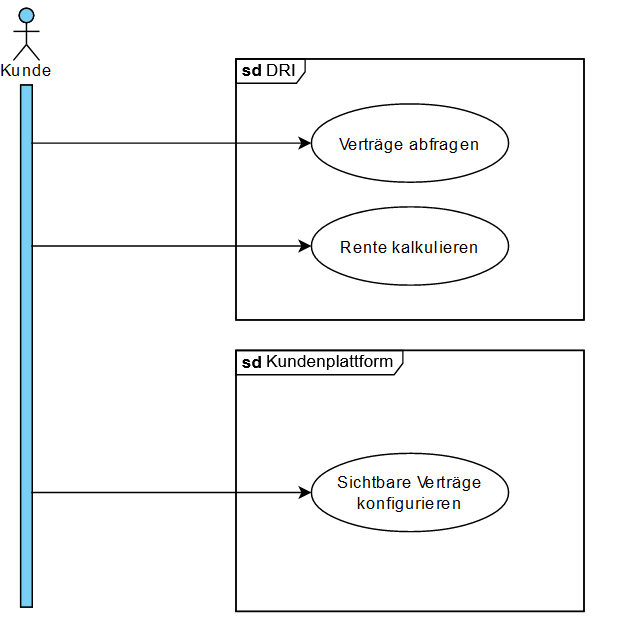
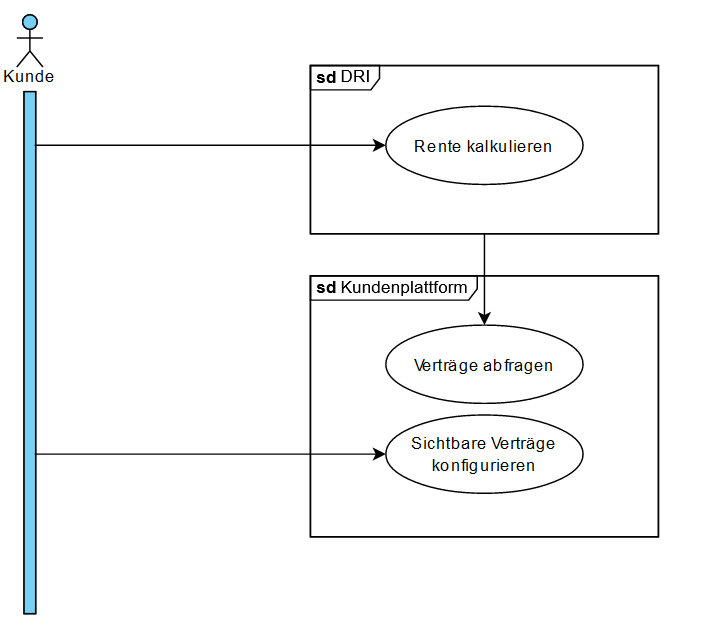
UML

Changed region(s): [[0.0, 0.0, 0.9439, 1.0], [0.6394, 0.6364, 0.7612, 0.6667], [0.5176, 0.7879, 0.5481, 0.8182]]

diff --git a/docs/FRIDA_PensionInformation_OA3_german/description.md b/docs/FRIDA_PensionInformation_OA3_german/description.md
@@ -1,181 +1,18 @@
-# Overview 123
-## Use-Cases 12345
-
+# Overview 
+## Use-Cases
 <img
-src="FRIDA_PensionInformation_OA3_german/resources/User.png">    
+src="FRIDA_PensionInformation_OA3_german/resources/User.png">     
+<p>This UML diagram describes the relationship between the client and the two platforms. He interacts with the DRI portal to calculate his pension.
+The DRI platform then queries the contracts via the customer platform. In addition to that, the customer is able to
+ configure the visible contracts via the customer platform.
+</p>
 
-Lorem ipsum dolor sit amet, consetetur sadipscing elitr, sed diam nonumy eirmod tempor invidunt ut labore et dolore magna aliquyam erat, sed diam voluptua. At vero eos et accusam et justo duo dolores et ea rebum. Stet clita kasd gubergren, no sea takimata sanctus est Lorem ipsum dolor sit amet. Lorem ipsum dolor sit amet, consetetur sadipscing elitr, sed diam nonumy eirmod tempor invidunt ut labore et dolore magna aliquyam erat, sed diam voluptua. At vero eos et accusam et justo duo dolores et ea rebum. Stet clita kasd gubergren, no sea takimata sanctus est Lorem ipsum dolor sit amet.
-
-## Sequenzdiagramm 12345
-
+## Use-Case 1: 
 <img
-src="FRIDA_PensionInformation_OA3_german/resources/Diagramm.png">  
+src="FRIDA_PensionInformation_OA3_german/resources/Case1.png">  
+Der Kunde kann die Methode ```sichtbareVerträgeKonfigurieren()``` 
 
-Lorem ipsum dolor sit amet, consetetur sadipscing elitr, sed diam nonumy eirmod tempor invidunt ut labore et dolore magna aliquyam erat, sed diam voluptua. At vero eos et accusam et justo duo dolores et ea rebum. Stet clita kasd gubergren, no sea takimata sanctus est Lorem ipsum dolor sit amet. Lorem ipsum dolor sit amet, consetetur sadipscing elitr, sed diam nonumy eirmod tempor invidunt ut labore et dolore magna aliquyam erat, sed diam voluptua. At vero eos et accusam et justo duo dolores et ea rebum. Stet clita kasd gubergren, no sea takimata sanctus est Lorem ipsum dolor sit amet.
+## Authentifizierung: 
+<img src="FRIDA_PensionInformation_OA3_german/resources/Case2.png">  
 
-Get the current weather, daily forecast for 16 days, and a
 
-three-hour-interval forecast for 5 days for your city.
-
-## Graphics and charts
-
-
-Helpful stats, graphics, and this day in history charts are available for
-your reference. 
-
-## BPMN
-<img src="FRIDA_PensionInformation_OA3_german/resources/BPMN.png">  
-
-Lorem ipsum dolor sit amet, consetetur sadipscing elitr, sed diam nonumy eirmod tempor invidunt ut labore et dolore magna aliquyam erat, sed diam voluptua. At vero eos et accusam et justo duo dolores et ea rebum. Stet clita kasd gubergren, no sea takimata sanctus est Lorem ipsum dolor sit amet. Lorem ipsum dolor sit amet, consetetur sadipscing elitr, sed diam nonumy eirmod tempor invidunt ut labore et dolore magna aliquyam erat, sed diam voluptua. At vero eos et accusam et justo duo dolores et ea rebum. Stet clita kasd gubergren, no sea takimata sanctus est Lorem ipsum dolor sit amet.
-
-# Interactive maps
-
-
-Interactive maps show precipitation, clouds, pressure, wind around your
-location stations. Data is available in JSON, XML, or HTML format.
-
-
-**Note**: This sample Swagger file covers the `current` endpoint only from
-the OpenWeatherMap API. <br/><br/> **Note**: All parameters are optional,
-but you must select at least one parameter. Calling the API by city ID
-(using the `id` parameter) will provide the most precise location results.
-
-
-# Voluisti qua ambitae urbes deposuitque illas
-
-
-## Verte arceat
-
-
-Lorem markdownum, videre temptabimus movit sollicitat in poteris tetigere
-
-circumfluus potitur posse et Minyeides nondum cupio. Bracchia de utque
-templis
-
-sinuosa? Mihi regna excutit lacertos, magnorum, cupidine, quodcumque
-latratibus
-
-et conubia vitae ego matrem et. Proxima coniuge dicere, pone unda hic
-fallite.
-
-Tereus foret sed Laelapa **et** meritis ursos fusus *doctus tibi sculpsit*,
-ubi,
-
-in educere regia, fata.
-
-
-1. Pone levius
-   
-2. Quos optato et haerent declinat erat sub
-3. Vel penetralia tendens difficilem 
-4.  sed diam nonumy eirmod tempor invidunt 
-5.   sed diam nonumy eirmod tempor invidunt 
-
-
-## Telum sensit
-
-
-Inclusum soror oculorum et imo Cythereide Dianae Philomela patriam, Iovis
-per
-
-sine. Dies chlamydis rubescere per in iubet summa sinamus thalamos meum, et!
-
-Deum rursus **caput** cruentati, et tardi ardentem paratis, *oreada*.
-
-    file = memory(view_monitor_wrap, script);
-    icio_gif -= -1;
-    googleStart = paste_ebook.kde(it_srgb);
-    if (opacity + file_page_pop < ios_sample) {
-        nybble = ups_cable;
-        executable_printer = json;
-        ddlBlob(grepClob(byte_type_digital, direct_pdf), rawEsports(png_http,
-                frozen_bus_matrix, bar));
-    }
-    sla_iteration = ctr_and;
-
-## Mihi erat quam
-
-
-Arces pavor dixi difficilem in nomen curat vincula conlaudat premens
-timorem:
-
-ecce securi in tenetis. Exierant aggere fragorem non haec, [ita
-
-vox](http://non.com/) Inarimen; [uno](http://www.dira-potes.io/ceu.html)
-tellus.
-
-Iniqua aeris additur alis, iugo adice viribus, monstro, promissa sacro caput
-
-**condat** subiecto et sim [quo](http://www.crura-cum.org/) exit? Edere
-stipite
-
-temploque auxilium superos oculos **Minervae**, cum rictus apri suumque,
-pennis
-
-videt nomine? Tulit detrusit post: meo Nilus vada videbor flumina, non
-vestigia
-
-aquis coeperat deriguere lata sine, nec.
-
-
-> Prima genitor *obscurum* excipit sedendo popularis reticere discede
-nostri,
-
-> margine, Pentheus, et illa Troiae Peliden arvaque. Facinus nec! Est umbra
-
-> dominique quoque, aera, et pectore flammae fuga vias: etiam! Paulum
-Anaphen
-
-> pars aptos latent arbore **anni** liceat calcare dat corpora duritia
-desinere
-
-> dedit nata fiunt **armat**.
-
-
-Sic liceat, **saxo fallit posset** ignes, erit ab ecquem; omne gentis notas.
-
-Sive sine. Me res lacrimae templis fecunda interea, *taedas nullo*, iam
-paelice
-
-oculos fruges; his verti **exilium**.
-
-## Verte arceat
-
-
-Lorem markdownum, videre temptabimus movit sollicitat in poteris tetigere
-
-circumfluus potitur posse et Minyeides nondum cupio. Bracchia de utque
-templis
-
-sinuosa? Mihi regna excutit lacertos, magnorum, cupidine, quodcumque
-latratibus
-
-et conubia vitae ego matrem et. Proxima coniuge dicere, pone unda hic
-fallite.
-
-Tereus foret sed Laelapa **et** meritis ursos fusus *doctus tibi sculpsit*,
-ubi,
-
-in educere regia, fata.
-
-
-1. Pone levius
-   
-2. Quos optato et haerent declinat erat sub
-3. Vel penetralia tendens difficilem 
-4.  sed diam nonumy eirmod tempor invidunt 
-5.   sed diam nonumy eirmod tempor invidunt 
-
-
-
-[Mihi pulsavit pinguescere](http://tenus-natas.io/venus.php) obstipui
-ebrietas
-
-Messeneque temeraria timore doloris nulla, opifer [boum
-
-animus](http://mactatos.com/) constitit. Corque iners, quod eadem.
-
-[Mihi](http://www.distantia.org/animussimilisque.html) silvestribus aures
-nec
-
-mala ipsa tellus, qui aere dea processit Scylla accessit.
